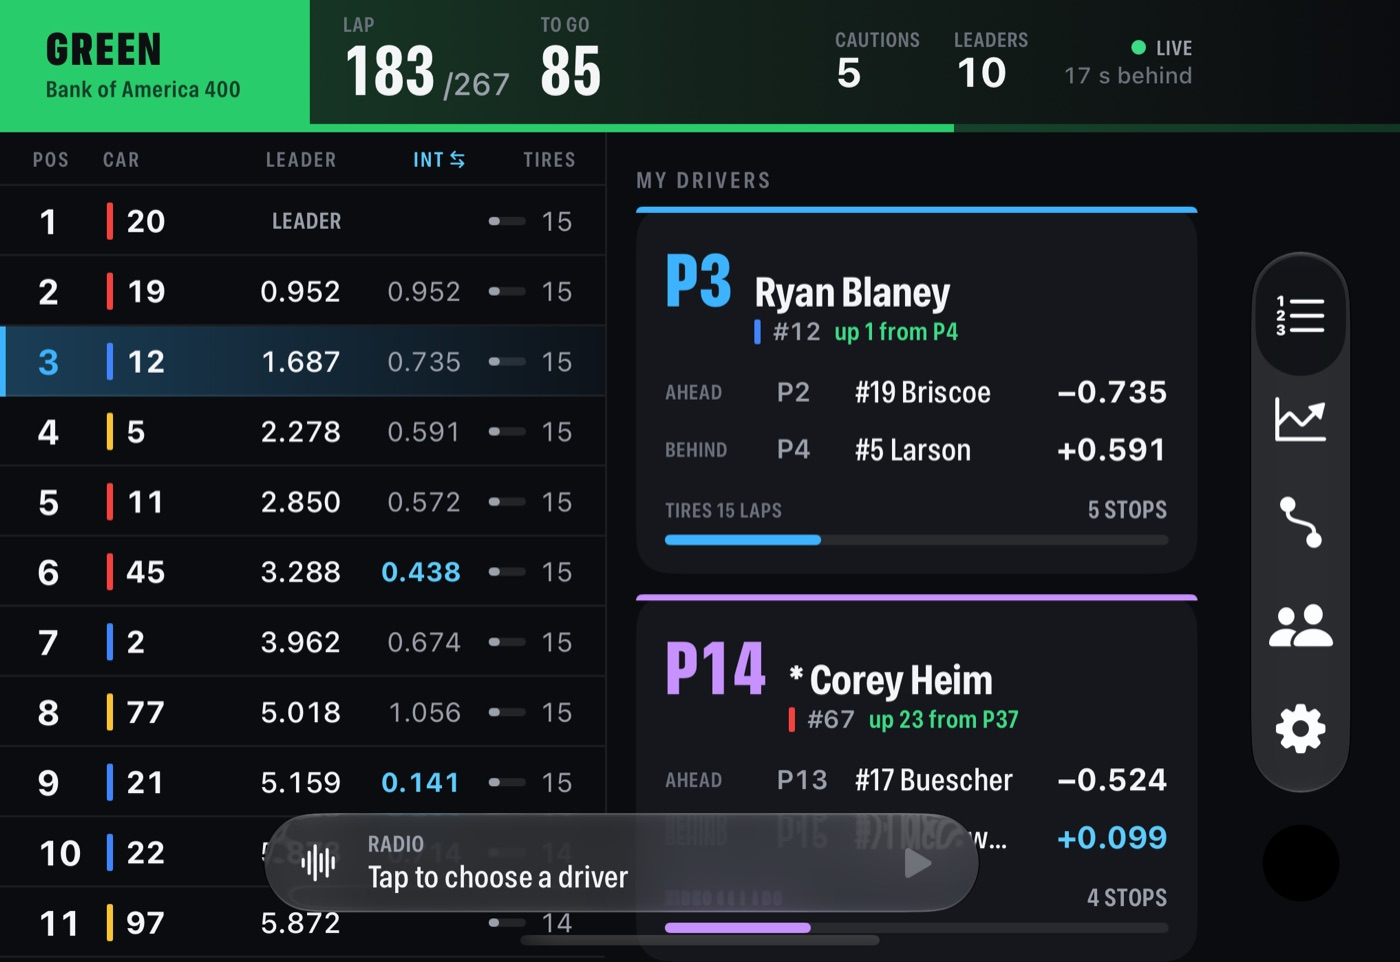
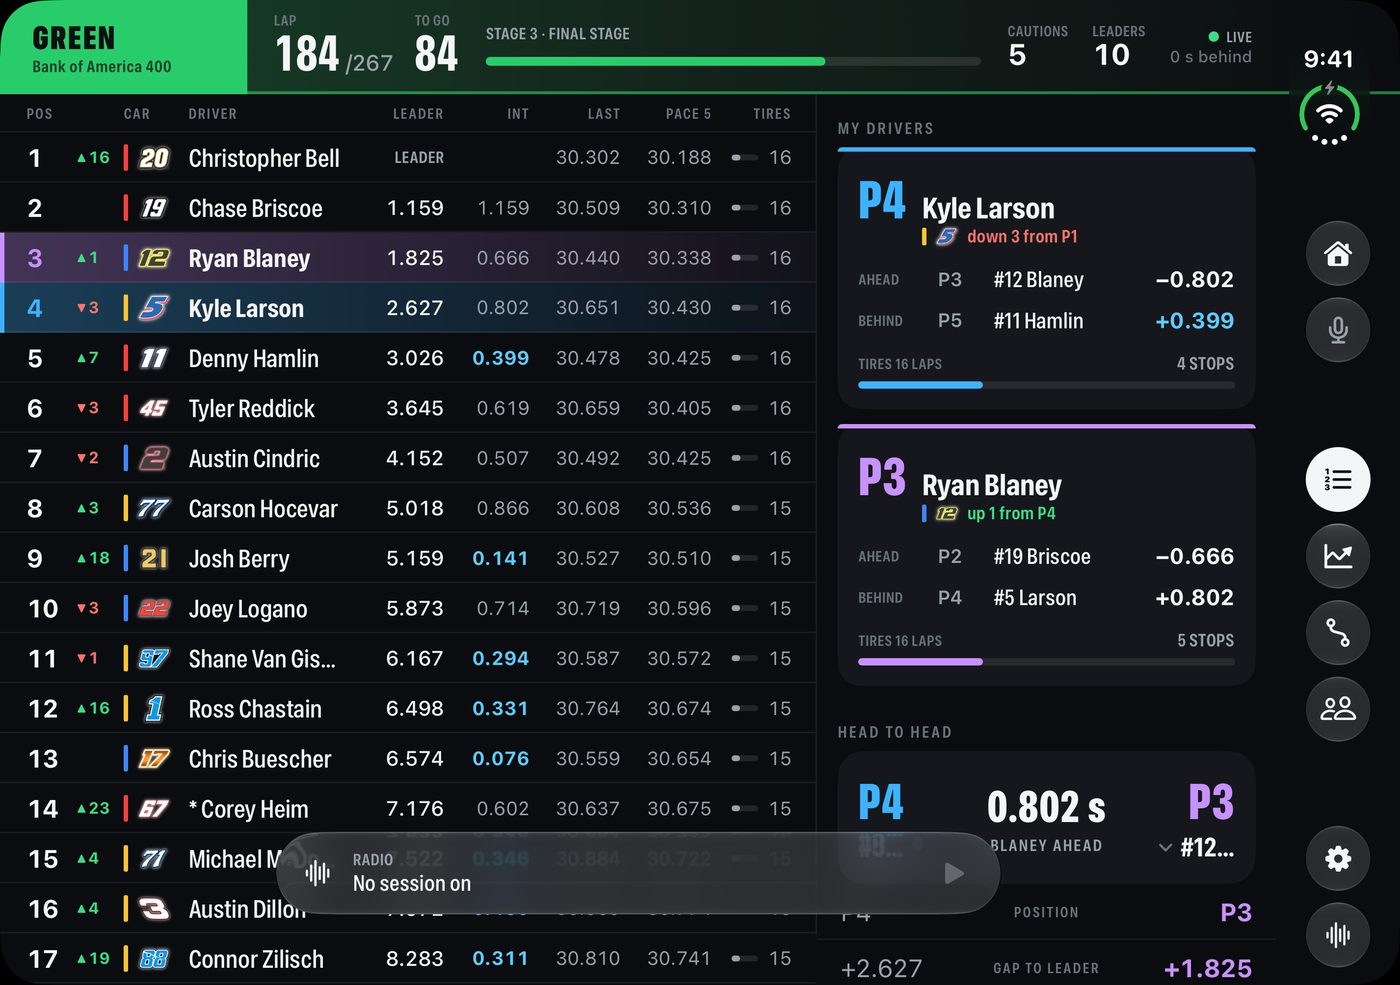
Build 23 refresh: Home, F1, new race and Duo screenshots, Mac Studio server

diff --git a/index.html b/index.html
@@ -3,7 +3,8 @@
 <head>
 <meta charset="utf-8">
 <meta name="viewport" content="width=device-width, initial-scale=1, viewport-fit=cover">
-<meta name="description" content="Race Day: a live NASCAR companion for iPhone Duo, iPad and iPhone.">
+<meta name="description" content="Race Day: a live race companion for iPhone Duo, iPad and iPhone. NASCAR and Formula 1.">
+<link rel="icon" href="img/icon.png">
 <title>Race Day</title>
 <link rel="preconnect" href="https://fonts.googleapis.com">
 <link rel="preconnect" href="https://fonts.gstatic.com" crossorigin>
@@ -48,7 +49,8 @@ p { margin: 0 0 14px; }
 
 /* Hero */
 .hero { display: grid; grid-template-columns: minmax(0, .82fr) minmax(0, 1.4fr); gap: 44px; align-items: center; padding-block: 56px 64px; }
-.by { font-family: var(--mono); font-size: 13px; color: var(--muted); margin: 0 0 14px; }
+.by { font-family: var(--mono); font-size: 13px; color: var(--muted); margin: 0 0 14px; display: flex; align-items: center; gap: 12px; }
+.by .icon { width: 48px; height: 48px; border-radius: 11px; }
 h1 { font-family: var(--display); font-weight: 800; font-size: clamp(64px, 10vw, 128px); line-height: .86; margin: 0 0 22px; text-transform: uppercase; }
 .lede { font-size: 20px; max-width: 32ch; text-wrap: pretty; }
 .kit { font-family: var(--mono); font-size: 13px; color: var(--muted); border-top: 1px solid var(--line); padding-top: 12px; margin-top: 22px; }
@@ -82,6 +84,17 @@ h3 { font-family: var(--display); font-weight: 700; font-size: 22px; text-transf
 .playing .line.on { opacity: 1; }
 .moment .after { color: var(--soft); max-width: 64ch; margin-top: 34px; }
 .fine { font-size: 14px; color: var(--muted); }
+
+/* home, f1 */
+.home { padding-block: 64px; }
+.home .top { display: grid; grid-template-columns: minmax(0, 1fr) minmax(0, 1.4fr); gap: 48px; align-items: center; }
+.home p, .f1 p { color: var(--soft); max-width: 56ch; }
+.home .row { display: grid; grid-template-columns: minmax(0, 1fr) minmax(0, 1fr) minmax(0, 1.3fr); gap: 22px; margin-top: 36px; align-items: start; }
+.home .row img, .f1 .phones img { border-radius: 24px; border: 5px solid #1d2228; }
+.home .row dl.cols { margin-top: 0; }
+.f1 { padding-block: 64px; display: grid; grid-template-columns: minmax(0, 1fr) minmax(0, 1fr); gap: 56px; align-items: center; }
+.f1 .phones { display: grid; grid-template-columns: minmax(0, 1fr) minmax(0, 1fr); gap: 16px; max-width: 520px; margin: 0; }
+.f1 .phones .cap { grid-column: 1 / -1; margin-top: 2px; }
 
 /* tower */
 .tower { padding-block: 64px; display: grid; grid-template-columns: minmax(0, 1fr) minmax(0, 1.1fr); gap: 56px; align-items: center; }
@@ -141,7 +154,9 @@ dl.cols dd { margin: 0; color: var(--soft); }
 .note strong { color: var(--ink); }
 
 @media (max-width: 860px) {
-  .hero, .moment .grid, .tower, .intercom, .how { grid-template-columns: minmax(0, 1fr); gap: 32px; }
+  .hero, .moment .grid, .tower, .intercom, .how, .home .top, .f1 { grid-template-columns: minmax(0, 1fr); gap: 32px; }
+  .home .row { grid-template-columns: minmax(0, 1fr) minmax(0, 1fr); }
+  .home .row dl { grid-column: 1 / -1; }
   .hero { padding-top: 36px; }
   .stack { padding-right: 0; margin-bottom: 30px; }
   .stack .over { width: 42%; right: -4px; }
@@ -175,21 +190,21 @@ dl.cols dd { margin: 0; color: var(--soft); }
 <div class="band" id="band" aria-hidden="true">
   <div class="flag" id="flag"><b id="fword">GREEN</b><span id="fsub">Race Day</span></div>
   <div class="where">
-    <div><small id="l1">LAP</small><strong id="v1">183</strong><em id="e1"> /267</em></div>
-    <div><small id="l2">TO GO</small><strong id="v2">85</strong></div>
+    <div><small id="l1">LAP</small><strong id="v1">184</strong><em id="e1"> /267</em></div>
+    <div><small id="l2">TO GO</small><strong id="v2">84</strong></div>
     <div class="opt"><small id="l3">RACE</small><strong id="v3" style="font-size:20px">Bank of America 400</strong></div>
   </div>
 </div>
 
 <main class="wrap">
-  <header class="hero" data-flag="green" data-l1="LAP" data-v1="183" data-e1=" /267" data-l2="TO GO" data-v2="85" data-l3="RACE" data-v3="Bank of America 400">
+  <header class="hero" data-flag="green" data-l1="LAP" data-v1="184" data-e1=" /267" data-l2="TO GO" data-v2="84" data-l3="RACE" data-v3="Bank of America 400">
     <div>
-      <p class="by">A side project by Josh Ramey</p>
+      <p class="by"><img class="icon" src="img/icon.png" alt="" width="48" height="48">A side project by Josh Ramey</p>
       <h1>Race Day</h1>
       <p class="lede">I built Race Day to watch NASCAR with. It sits next to the TV and shows the whole field, what my drivers' cars are doing, and every team's radio as text, delayed so it lines up with the broadcast.</p>
-      <p class="kit">iPhone Duo · iPad · iPhone<br>Cup, O'Reilly Auto Parts, Craftsman Truck and ARCA Menards</p>
+      <p class="kit">iPhone Duo · iPad · iPhone<br>Cup, O'Reilly Auto Parts, Craftsman Truck, ARCA Menards and Formula 1</p>
     </div>
-    <img class="duo" src="img/duo-land-race.jpg" alt="Race Day on an iPhone Duo held sideways: green flag, lap 183 of 267, the timing tower beside cards for Ryan Blaney in P3 and Corey Heim in P14 with the gaps to the cars around them" width="1400" height="962">
+    <img class="duo" src="img/duo-land-race.jpg" alt="Race Day on an iPhone Duo opened flat and held sideways: green flag, lap 184 of 267, the timing tower with car badges beside cards for Kyle Larson in P4 and Ryan Blaney in P3 with the gaps to the cars around them" width="1400" height="985">
   </header>
 
   <section class="moment chapter" id="talladega" data-flag="checkered" data-l1="LAP" data-v1="189" data-e1=" /189" data-l2="WINNER" data-v2="#5" data-l3="RACE" data-v3="YellaWood 500">
@@ -214,10 +229,32 @@ dl.cols dd { margin: 0; color: var(--soft); }
         <figcaption class="cap">The radio panel on the Duo, replayed from my server after the race</figcaption>
       </figure>
     </div>
-    <p class="after">Every Cup team has its own channel, more than 40 with the officials. My server transcribes them on a GPU at home and holds each line back by the same delay as the TV. Lines get tagged (fuel, tires, handling, restarts), and tapping one plays it again. You can listen to two drivers at once, or let it scan to whoever's talking. It keeps playing with the phone locked.</p>
+    <p class="after">Every Cup team has its own channel, more than 40 with the officials. My server transcribes them on a Mac at home and holds each line back by the same delay as the TV. Lines get tagged (fuel, tires, handling, restarts), and tapping one plays it again. You can listen to two drivers at once, or let it scan to whoever's talking. It keeps playing with the phone locked.</p>
   </section>
 
-  <section class="tower chapter" data-flag="green" data-l1="LAP" data-v1="183" data-e1=" /267" data-l2="TO GO" data-v2="85" data-l3="RACE" data-v3="Bank of America 400">
+  <section class="home chapter" id="home" data-flag="green" data-sub="Home" data-l1="NEXT" data-v1="Qualifying" data-e1="" data-l2="IN" data-v2="10h 18m" data-l3="TRACK" data-v3="Martinsville">
+    <div class="top">
+      <div>
+        <h2>Home: what's on, what's next, where everyone stands</h2>
+        <p>The app opens on Home now. Across the top is a row of chips with each series' own logo: Cup, O'Reilly, Trucks, ARCA and F1. Pick one and it fills with that series' colour and everything below follows it.</p>
+        <p>The band at the top counts down to the next session. For 12 hours after a race it shows the winner instead, with a button to replay it. When something is on, it's a card at the top: one tap and you're in the race. Behind it all are light streaks, like a night race under the lights, tinted to match the chip.</p>
+      </div>
+      <img class="duo" src="img/duo-land-home.jpg" alt="Home on an iPhone Duo opened flat and held sideways: the Cup chip picked and filled gold, next up Cup qualifying at Martinsville in 10 hours 18 minutes, the Cup schedule on the left page and the Cup standings on the right" loading="lazy" width="1400" height="985">
+    </div>
+    <div class="row">
+      <img src="img/phone-home.jpg" alt="Home on iPhone with all five series: F1 practice next in Mexico City, then the day's sessions for Cup, ARCA and O'Reilly with local times" loading="lazy" width="700" height="1522">
+      <img src="img/phone-standings.jpg" alt="Cup standings after the YellaWood 500 on iPhone: Kyle Larson first on 2,441 points, each driver with their car badge, wins and gap" loading="lazy" width="700" height="1522">
+      <dl class="cols">
+        <dt>Schedule</dt><dd>Every session for all five series in one list, in my time zone with the track's local time beside it. A moved start shows the old time struck through.</dd>
+        <dt>Standings</dt><dd>Points for each NASCAR series with car badges and wins. For F1, drivers and constructors.</dd>
+        <dt>Replays</dt><dd>Races I've saved, each with its result: winner, laps led, cautions, lead changes.</dd>
+        <dt>Badges</dt><dd>NASCAR's own car-number art, cached on my server so replays work offline.</dd>
+      </dl>
+    </div>
+    <p class="cap">Duo opened flat with Cup picked, then Home and the Cup standings on iPhone · October 31, 2026</p>
+  </section>
+
+  <section class="tower chapter" data-flag="green" data-l1="LAP" data-v1="184" data-e1=" /267" data-l2="TO GO" data-v2="84" data-l3="RACE" data-v3="Bank of America 400">
     <div>
       <h2>The running order, and my two drivers</h2>
       <p style="color:var(--soft)">The running order fills most of the screen and stays put. The numbers I keep checking during a run sit right next to each car. The two drivers I follow each get a card with what their car is doing right now, taken from its telemetry.</p>
@@ -225,46 +262,63 @@ dl.cols dd { margin: 0; color: var(--soft); }
         <dt>Gaps</dt><dd>To the leader and to the car ahead. Under half a second it turns blue, so battles stand out.</dd>
         <dt>Pace</dt><dd>Last lap, average of the last five, laps on tires, stops, laps led.</dd>
         <dt>Cockpit</dt><dd>Speed, gear, throttle and brake for each of my drivers, plus fuel laps left and the pit window.</dd>
+        <dt>Lock Screen</dt><dd>A Live Activity with the flag, the lap and where my drivers are, updated while the app or the radio is running.</dd>
         <dt>Flag</dt><dd>Race control's latest message under the flag, and the white flag when the lap count says one to go.</dd>
       </dl>
     </div>
     <div class="stack">
-      <img class="ipad" src="img/ipad-race.jpg" alt="Full timing tower on iPad at lap 183: position, car, driver, gaps, last lap, 5-lap pace, tires and stops for the whole field" loading="lazy" width="1240" height="1653">
-      <img class="over" src="img/duo-race.jpg" alt="iPhone Duo folded: cards for Blaney and Heim with speed, gear, throttle and brake bars, tires and fuel" loading="lazy" width="1000" height="1455">
+      <img class="ipad" src="img/ipad-race.jpg" alt="Full timing tower on iPad at lap 184: position, places gained, car badge, driver, gaps, last lap, 5-lap pace, tires, stops and laps led for the whole field, under cards for Larson and Blaney" loading="lazy" width="1240" height="1653">
+      <img class="over" src="img/duo-race.jpg" alt="iPhone Duo folded: cards for Larson and Blaney with the cars ahead and behind, tires and stops, above the running order, with the app's controls in the strip beside the clock" loading="lazy" width="1000" height="1455">
     </div>
-    <p class="cap">iPad and folded Duo · Bank of America 400 at Charlotte, laps 182 to 183</p>
+    <p class="cap">iPad and folded Duo · Bank of America 400 at Charlotte, lap 184</p>
   </section>
 
-  <section class="strip chapter" data-flag="green" data-l1="LAP" data-v1="183" data-e1=" /267" data-l2="TO GO" data-v2="85" data-l3="RACE" data-v3="Bank of America 400">
+  <section class="strip chapter" data-flag="green" data-l1="LAP" data-v1="184" data-e1=" /267" data-l2="TO GO" data-v2="84" data-l3="RACE" data-v3="Bank of America 400">
     <h2>Strategy, Track and Compare</h2>
     <div class="row">
-      <figure style="margin:0"><img src="img/ipad-strategy.jpg" alt="Strategy page: position chart for Blaney and Heim with cautions shaded, above the recent pit stops" loading="lazy" width="1240" height="1653"><h3 style="margin-top:14px">Strategy</h3><p>Where my drivers ran every lap with cautions shaded, who's due to pit, and what each stop gained or lost.</p></figure>
-      <figure style="margin:0" class="track"><img src="img/ipad-track.jpg" alt="Track page: every car on the Charlotte outline placed by GPS, Blaney and Heim labeled, the leader ringed" loading="lazy" width="1240" height="1653"><h3 style="margin-top:14px">Track</h3><p>Every car on the real track outline, placed from its GPS. Tap a car to follow it.</p></figure>
-      <figure style="margin:0"><img src="img/ipad-compare.jpg" alt="Compare page: the gap between two drivers and both positions through the race, with their stats side by side" loading="lazy" width="1240" height="1653"><h3 style="margin-top:14px">Compare</h3><p>Pick any two drivers: the gap between them, both positions through the race, and who's better at what.</p></figure>
+      <figure style="margin:0"><img src="img/ipad-strategy.jpg" alt="Strategy page: position chart for Blaney with cautions shaded, the recent pit stops with tires taken and time on pit road, and each driver's pit window" loading="lazy" width="1240" height="1653"><h3 style="margin-top:14px">Strategy</h3><p>Where my drivers ran every lap with cautions shaded, every stop with the tires taken and what it gained or lost, and who's due to pit.</p></figure>
+      <figure style="margin:0" class="track"><img src="img/ipad-track.jpg" alt="Track page: every car on the Charlotte outline placed by GPS, Blaney labeled, with the follow cards for Larson and Blaney below" loading="lazy" width="1240" height="1653"><h3 style="margin-top:14px">Track</h3><p>Every car on the real track outline, placed from its GPS. Tap a car to follow it.</p></figure>
+      <figure style="margin:0"><img src="img/ipad-compare.jpg" alt="Compare page: Larson against Blaney, the gap between them, their points, last lap, pace and tires side by side, and both positions through the race" loading="lazy" width="1240" height="1653"><h3 style="margin-top:14px">Compare</h3><p>Pick any two drivers: the gap between them, both positions through the race, and who's better at what.</p></figure>
     </div>
   </section>
 
-  <section class="lineup chapter" data-flag="green" data-l1="LAP" data-v1="183" data-e1=" /267" data-l2="TO GO" data-v2="85" data-l3="RACE" data-v3="Bank of America 400">
-    <h2>Layouts for each way the Duo opens, and for iPhone</h2>
+  <section class="f1 chapter" id="f1" data-flag="green" data-sub="Formula 1" data-l1="ON TRACK" data-v1="14" data-e1="" data-l2="FASTEST" data-v2="1:18.128" data-l3="SESSION" data-v3="Mexico City, Practice 1">
+    <div>
+      <h2>Formula 1 too</h2>
+      <p>F1 comes from F1's own live timing, which my server listens to and records like the NASCAR feeds. In practice and qualifying the tower becomes a timing sheet: best lap, gap to the fastest, laps run, and the tyre each car is on, with a dot for the cars out on track.</p>
+      <p>For races it shows the order, gaps, laps down, pit stops, tyre age and the safety car or VSC under the flag. So far I've checked it against the US Grand Prix result and a live practice in Mexico City. A race weekend will tell me the rest.</p>
+    </div>
+    <figure class="phones">
+      <img src="img/phone-f1.jpg" alt="F1 Practice 1 in Mexico City on iPhone: 14 cars on track, fastest lap 1:18.128 by Charles Leclerc, the timing sheet with best laps, gaps, laps and soft, medium and hard tyre markers" loading="lazy" width="700" height="1522">
+      <img src="img/phone-f1-standings.jpg" alt="F1 drivers' standings after the United States Grand Prix on Home: Kimi Antonelli first on 365 points, then George Russell and Lewis Hamilton" loading="lazy" width="700" height="1522">
+      <figcaption class="cap">First practice in Mexico City, replayed from my server, and the drivers' standings on Home</figcaption>
+    </figure>
+  </section>
+
+  <section class="lineup chapter" data-flag="green" data-l1="LAP" data-v1="184" data-e1=" /267" data-l2="TO GO" data-v2="84" data-l3="RACE" data-v3="Bank of America 400">
+    <h2>A layout for each way the Duo opens, and for iPhone</h2>
     <ul>
-      <li><b>Duo on its side.</b> The tower and my drivers side by side, page tabs in the strip next to the clock.</li>
-      <li><b>Duo half open.</b> The page on top, the radio deck below the fold.</li>
-      <li><b>Duo open like a book.</b> The race on the left page, details on the right.</li>
+      <li><b>Duo folded.</b> One column, with Home, the intercom, the page tabs and the radio in the strip beside the clock.</li>
+      <li><b>Duo open flat.</b> Upright it's one long column. On its side the tower gets one page and my drivers the other.</li>
+      <li><b>Duo half open like a laptop.</b> The race on top, the page tabs and the radio deck below the fold, where your thumbs are.</li>
+      <li><b>Duo open like a book.</b> The race on the left page, my drivers and head to head on the right.</li>
+      <li><b>Same places everywhere.</b> Home and the race put their controls in the same spots in every posture, and folding mid-race keeps you where you were.</li>
       <li><b>Practice and qualifying.</b> The tower turns into a timing sheet by best lap, with long-run pace.</li>
     </ul>
     <div class="row">
-      <img class="duo" src="img/duo-land-track.jpg" alt="Track page on an iPhone Duo held sideways: the oval with every car placed, Blaney and Heim labeled, beside their follow cards" loading="lazy" width="1400" height="962">
-      <img src="img/phone-race.jpg" alt="Race page on iPhone with the tab bar along the bottom" loading="lazy" width="700" height="1521">
-      <img src="img/phone-strategy.jpg" alt="Strategy page on iPhone" loading="lazy" width="700" height="1521">
+      <img class="duo" src="img/duo-book.jpg" alt="iPhone Duo half open like a book: the running order on the left page, the cards for Larson and Blaney and their head to head on the right, page tabs along the top of the right page" loading="lazy" width="1400" height="985">
+      <img src="img/duo-laptop.jpg" alt="iPhone Duo half open like a laptop: the running order on the top half, the page tabs and the radio deck on the bottom half" loading="lazy" width="900" height="1279">
+      <img src="img/phone-strategy.jpg" alt="Strategy page on iPhone: Blaney's position through the race with cautions shaded, then the recent pit stops, with the tab bar along the bottom" loading="lazy" width="700" height="1522">
     </div>
-    <p class="cap">Duo on its side, then the Race and Strategy pages on iPhone</p>
+    <p class="cap">Duo open like a book, Duo half open like a laptop, and the Strategy page on iPhone</p>
   </section>
 
-  <section class="intercom chapter" data-flag="green" data-l1="LAP" data-v1="183" data-e1=" /267" data-l2="TO GO" data-v2="85" data-l3="RACE" data-v3="Bank of America 400">
+  <section class="intercom chapter" data-flag="green" data-l1="LAP" data-v1="184" data-e1=" /267" data-l2="TO GO" data-v2="84" data-l3="RACE" data-v3="Bank of America 400">
     <div>
       <h2>Talking to the person next to you at the track</h2>
       <p>At the track, cell service is weak and the cars drown everything out. With the intercom on, two phones become a headset intercom, so you can talk over the race. If there's enough data for it, each of you still hears your own team's radio underneath.</p>
       <p>It goes phone to phone over Apple's peer-to-peer Wi-Fi, the same link AirDrop uses, so it doesn't need cell signal or a Wi-Fi network. Hold the button to talk or leave the mic open. Your radio dips while the other person talks. It works with AirPods, and if you walk out of range it finds the other phone again by itself.</p>
+      <p>The mic button is on every screen. The intercom opens over whatever you were looking at, Home or the race, and closing it puts you back exactly there.</p>
     </div>
     <figure class="pair">
       <img src="img/duo-intercom-crop.jpg" alt="The talk button on an iPhone Duo, red while this person talks" loading="lazy" width="460" height="460">
@@ -273,29 +327,31 @@ dl.cols dd { margin: 0; color: var(--soft); }
     </figure>
   </section>
 
-  <section class="how chapter" data-flag="green" data-l1="LAP" data-v1="183" data-e1=" /267" data-l2="TO GO" data-v2="85" data-l3="RACE" data-v3="Bank of America 400">
+  <section class="how chapter" data-flag="green" data-l1="LAP" data-v1="184" data-e1=" /267" data-l2="TO GO" data-v2="84" data-l3="RACE" data-v3="Bank of America 400">
     <div>
-      <h2>A PC in my house does the work</h2>
-      <p>A server at home follows NASCAR's public live timing and the team radio. It keeps a copy of each session on that machine so I can rewatch a race later, radio included. It transcribes the radio on its own GPU and sends my devices one stream, held back to match the TV. Only my devices and a few friends' connect to it. Nothing is public and nothing is sold.</p>
+      <h2>A Mac Studio in my house does the work</h2>
+      <p>A server at home follows NASCAR's public live timing and the team radio, plus the timing for ARCA and F1. It keeps a copy of each session so I can rewatch a race later, radio included, and transcribes the radio on the Mac itself, with Whisper running on Apple silicon. It sends my devices one stream, held back to match the TV. Only my devices and a few friends' connect to it. Nothing is public and nothing is sold.</p>
+      <p>It can run more than one session at once. If an F1 race and a NASCAR race overlap, each gets its own stream and its own delay, and a chip in the race header switches between them. Opening a replay on your phone starts a room of your own, with that race's radio, so it doesn't change what anyone else is watching.</p>
       <table class="sheet">
         <thead><tr><th>NUMBER</th><th>WHAT IT IS</th></tr></thead>
         <tbody>
           <tr><td class="n">17 s</td><td>The delay I set so the app lines up with my TV</td></tr>
           <tr><td class="n">~2 s</td><td>How far the timing runs behind the live race before the TV delay is added</td></tr>
+          <tr><td class="n">5</td><td>Series on Home: Cup, O'Reilly, Trucks, ARCA and F1</td></tr>
           <tr><td class="n">40+</td><td>Radio channels in a Cup race: every team, plus officials</td></tr>
         </tbody>
       </table>
     </div>
     <ol class="pipe">
-      <li>Timing and scoring <span>full refresh ~every 15 s</span></li>
+      <li>Timing and scoring <span>NASCAR, ARCA, F1</span></li>
       <li>Car telemetry and GPS <span>speed, gear, pedals</span></li>
-      <li>Team radio <span>transcribed at home</span></li>
+      <li>Team radio <span>transcribed on the Mac</span></li>
       <li>Delay buffer <span>set to match the TV</span></li>
       <li>iPad, iPhone, Duo <span>the same stream</span></li>
     </ol>
   </section>
 
-  <section class="why chapter" data-flag="green" data-l1="LAP" data-v1="183" data-e1=" /267" data-l2="TO GO" data-v2="85" data-l3="RACE" data-v3="Bank of America 400">
+  <section class="why chapter" data-flag="green" data-l1="LAP" data-v1="184" data-e1=" /267" data-l2="TO GO" data-v2="84" data-l3="RACE" data-v3="Bank of America 400">
     <h2>Why this page exists</h2>
     <p>I'm a fan, not a company. I built this for myself and a few friends to watch races with. I'd like to show it to the people at NASCAR who work on fan and digital products, hear what they think, and learn whether there's a proper way to build on official timing and radio.</p>
   </section>
@@ -314,7 +370,7 @@ dl.cols dd { margin: 0; color: var(--soft); }
     </div>
   </section>
 
-  <p class="note"><strong>About this page.</strong> Race Day is a personal, non-commercial app I built for myself and a few friends. It isn't on the App Store, isn't sold, and isn't affiliated with, endorsed by or connected to NASCAR, its teams or its sponsors. Driver, team, race and sponsor names belong to their owners and are used only to describe real races. The Race Day screenshots are real races replayed from my server through Apple's iPad, iPhone and iPhone Duo simulators: the 2026 Bank of America 400 at Charlotte and the 2026 YellaWood 500 at Talladega. The iRacing images are drawn by the real overlay code from a sample session; the other drivers' names are made up.</p>
+  <p class="note"><strong>About this page.</strong> Race Day is a personal, non-commercial app I built for myself and a few friends. It isn't on the App Store, isn't sold, and isn't affiliated with, endorsed by or connected to NASCAR, its teams or its sponsors. Driver, team, race and sponsor names belong to their owners and are used only to describe real races. The Race Day screenshots are real sessions replayed from a test copy of my server through Apple's iPad, iPhone and iPhone Duo simulators: the 2026 Bank of America 400 at Charlotte, the 2026 YellaWood 500 at Talladega and first practice for the 2026 Mexico City Grand Prix. The schedule and standings are as they stood on October 31, 2026. The iRacing images are drawn by the real overlay code from a sample session; the other drivers' names are made up.</p>
 </main>
 <script>
 (() => {
